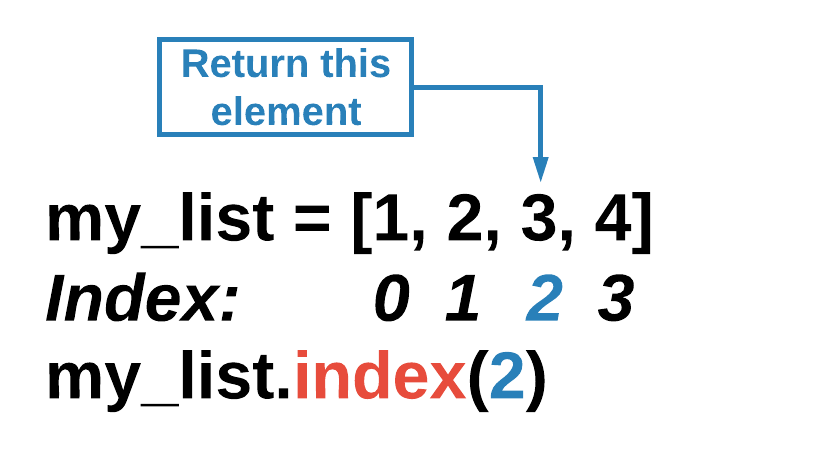
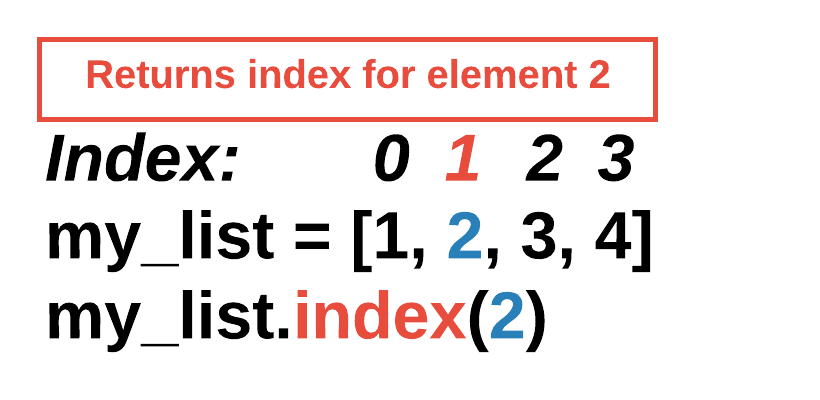
All QA fixed up until Strings save for the out-of-order problems.

Changed region(s): [[0.0305, 0.06, 0.8232, 0.9]]

diff --git a/.guides/secure/operators-exercise-3-helper.py b/.guides/secure/operators-exercise-3-helper.py
@@ -31,20 +31,33 @@ def count_variables(file):
     
   return num_vars == 2
 
-if count_prints(student_code):
-  if check_output(student_code):
-    if count_variables(student_code):
-      print("<h2>Test passed!</h2>")
-      sys.exit(0)
-    else:
-      print("<h2>Test did not pass</h2>")
-      print("Program did not use two variables.")
-      sys.exit(1)
-  else:
-    print("<h2>Test did not pass</h2>")
-    print("Program did not print 'Hello world'.")
-    sys.exit(1)
-else:
+def no_empty_string(file):
+  no_empty = True
+  with open(file, "r") as code_to_check:
+    for line in code_to_check.readlines():
+      if '""' in line or "''" in line:
+        no_empty = False
+    
+  return no_empty
+  
+if not count_variables(student_code):
+  print("<h2>Test did not pass</h2>")
+  print("Program did not use two variables.")
+
+if not check_output(student_code):
+  print("<h2>Test did not pass</h2>")
+  print("Program did not print 'Hello world'.")
+
+if not count_prints(student_code):
   print("<h2>Test did not pass</h2>")
   print("Did not use one print statement.")
+  
+if not no_empty_string(student_code):
+  print("<h2>Test did not pass</h2>")
+  print("Program should not contain any empty strings.")
+
+if check_output(student_code) and count_variables(student_code) and no_empty_string(student_code) and count_prints(student_code):
+  print("<h2>Test passed!</h2>")
+  sys.exit(0)
+else:
   sys.exit(1)

diff --git a/.guides/secure/operators-exercise-5-helper.py b/.guides/secure/operators-exercise-5-helper.py
@@ -14,8 +14,7 @@ def check_code(file):
       if "3.0" in line:
         has_float = True
       if "'2'" in line or '"2"' in line:
-        has_string = True
-    
+        has_string = True  
   return has_string and has_float
 
 def check_output(file):
@@ -25,15 +24,28 @@ def check_output(file):
   else:
     return False
 
-if check_code(student_code):
-  if check_output(student_code):
-    print("<h2>Test passed!</h2>")
-    sys.exit(0)
-  else:
-    print("<h2>Test did not pass</h2>")
-    print("Program did not print '5'")
-    sys.exit(1)
-else:
+def no_cheat(file):
+  no_cheating = True
+  with open(file, "r") as code_to_check:
+    for line in code_to_check.readlines():
+      if "print(5)" in line:
+        no_cheating = False
+  return no_cheating
+  
+if not check_code(student_code):
   print("<h2>Test did not pass</h2>")
-  print("Program does not have either a string or float variable")
+  print("Program needs to have a string and a float variable")
+  
+if not check_output(student_code):
+  print("<h2>Test did not pass</h2>")
+  print("Program did not print '5'")
+
+if not no_cheat(student_code):
+  print("<h2>Test did not pass</h2>")
+  print("Program cannot use `print(5)`")
+  
+if check_code(student_code) and check_output(student_code) and no_cheat(student_code):
+  print("<h2>Test passed!</h2>")
+  sys.exit(0)
+else:
   sys.exit(1)

diff --git a/.guides/secure/operators-exercise-4-helper.py b/.guides/secure/operators-exercise-4-helper.py
@@ -17,8 +17,7 @@ def check_code(file):
       if "2" in line:
         has_two = True
       if "/" in line or "//" in line:
-        has_div = True
-    
+        has_div = True 
   return has_seven and has_two and has_div
 
 def check_output(file):
@@ -28,15 +27,28 @@ def check_output(file):
   else:
     return False
 
-if check_code(student_code):
-  if check_output(student_code):
-    print("<h2>Test passed!</h2>")
-    sys.exit(0)
-  else:
-    print("<h2>Test did not pass</h2>")
-    print("Program did not print '3'")
-    sys.exit(1)
-else:
+def no_cheat(file):
+  cheat = True
+  with open(file, "r") as code_to_check:
+    for line in code_to_check.readlines():
+      if "print(3)" in line:
+        cheat= False    
+  return cheat
+
+if not check_code(student_code):
   print("<h2>Test did not pass</h2>")
   print("7 was not divided by 2")
+
+if not check_output(student_code):
+  print("<h2>Test did not pass</h2>")
+  print("Program did not result in the answer '3'")
+
+if not no_cheat(student_code):
+  print("<h2>Test did not pass</h2>")
+  print("Program cannot print '3' without doing division")
+  
+if check_code(student_code) and check_output(student_code) and no_cheat(student_code):
+  print("<h2>Test passed!</h2>")
+  sys.exit(0)
+else:
   sys.exit(1)

diff --git a/.guides/secure/fundamentals-exercise-5-helper.py b/.guides/secure/fundamentals-exercise-5-helper.py
@@ -21,16 +21,30 @@ def check_output(file):
     return True
   else:
     return False
+  
+def has_end(file):
+  end_command = False
+  with open(file, "r") as code_to_check:
+    for line in code_to_check.readlines():
+      if "end=" in line:
+        end_command = True
+    
+  return end_command
+    
+if not check_output(student_code):
+  print("<h2>Test did not pass</h2>")
+  print("Program did not print 'Okay, it is time to learn about operators.'")
 
-if count_prints(student_code):
-  if check_output(student_code):
-    print("<h2>Test passed!</h2>")
-    sys.exit(0)
-  else:
-    print("<h2>Test did not pass</h2>")
-    print("Program did not print 'Okay, it is time to learn about operators.'")
-    sys.exit(1)
-else:
+if not has_end(student_code):
+  print("<h2>Test did not pass</h2>")
+  print("Did not use `end` to remove newline character")
+    
+if not count_prints(student_code):
   print("<h2>Test did not pass</h2>")
   print("Did not use two print statements.")
+  
+if has_end(student_code) and check_output(student_code) and count_prints(student_code):
+  print("<h2>Test passed!</h2>")
+  sys.exit(0)
+else:
   sys.exit(1)

diff --git a/code/lists/exercise3.py b/code/lists/exercise3.py
@@ -1,10 +1,12 @@
 ########################################################
-# Erase the variable numbers before submitting your work
+# DO NOT EDIT THE CODE IN THE SECTION BELOW
 ########################################################
+import sys
 
-strings = []
+strings = sys.argv[1:]
 
 ########################################################
 # Enter your code below
 ########################################################
+
 

diff --git a/code/lists/list-index.py b/code/lists/list-index.py
@@ -1,0 +1,3 @@
+my_list = ["dog", True, 16, "house", 55.9, False, 0]
+index = my_list.index("house")
+print(index)

diff --git a/.guides/content/Exercise-3-f207.md b/.guides/content/Exercise-3-f207.md
@@ -3,17 +3,18 @@
 ## Lists Exercise 3
 
 **Problem**
-Write a program that takes a list called `strings` that contains a random selection of strings. Your program should print the first string when arranged in alphabetical order. **Note** use single quotes with your list of strings, the auto-grader will not work with double quotes.
+Write a program that takes a list called `strings` that contains a random selection of strings. Your program should print the first string when arranged in alphabetical order. 
 
 **Expected Output**
 * If `strings = ['luck', 'cat', 'kid', 'house']` then you will print `cat`
 * If `strings = ['duck', 'dddd', 'mouse', 'kite']` then you will print `dddd`
 
 **Important**
-Do not submit your code to be graded with the variable `strings`. The auto-grader will declare the variable for you.
+Do not edit the code in the top section. This code is necessary for the auto-grader to work. Add your code in the section below. Clicking the `TEST 1` button will test your code with `strings = ['luck', 'cat', 'kid', 'house']`. `TEST 2` will test your code with `strings = ['duck', 'dddd', 'mouse', 'kite']`.
 
-[Code Visualizer](open_tutor code/lists/exercise3.py)
-{try it}(python3 code/lists/exercise3.py)
+<details><summary>**Where is the code visualizer?**</summary>Unfortunately, the code visualizer does not work with the statement `import sys`. Since importing the `sys` module is required for this problem, the code visualizer will not be available for this problem.</details>
 
+{test 1}(python3 code/lists/exercise3.py luck cat kid house)
+{test 2}(python3 code/lists/exercise3.py duck dddd mouse kite)
 
 {Check It!|assessment}(code-output-compare-4058655817)

diff --git a/.guides/content/Exercise-2-7284.md b/.guides/content/Exercise-2-7284.md
@@ -9,7 +9,8 @@ Write a program that takes a list called `my_list` (it could be a list of any da
 * If `my_list = ['hi', 'hello']` then you will print `['hi', 'hello', 'hi', 'hello', 'hi', 'hello']`
 * If `my_list = [65, 111, 2, 81, 65, 32]` then you will print `['65', '111', '2', '81', '65', '32']`
 
-**Important**, do not edit the code in the top section. This code is necessary for the auto-grader to work. Add your code in the section below. Clicking the `TEST 1` button will test your code with `my_list = ['hi', 'hello']`. `TEST 2` will test your code with `my_list = [65, 111, 2, 81, 65, 32]`.
+**Important**
+Do not edit the code in the top section. This code is necessary for the auto-grader to work. Add your code in the section below. Clicking the `TEST 1` button will test your code with `my_list = ['hi', 'hello']`. `TEST 2` will test your code with `my_list = [65, 111, 2, 81, 65, 32]`.
 
 <details><summary>**Where is the code visualizer?**</summary>Unfortunately, the code visualizer does not work with the statement `import sys`. Since importing the `sys` module is required for this problem, the code visualizer will not be available for this problem.</details>
 

diff --git a/.guides/content/Exercise-1-9920.md b/.guides/content/Exercise-1-9920.md
@@ -11,7 +11,8 @@ Write a program that takes a list of integers called `numbers` and replaces each
 
 <details><summary>**Hint**</summary>Using the iteration variable alone is not sufficient to change the element of a list. You need to be able to access the **index** of the iteration variable to modify the element.</details>
 
-**Important**, do not edit the code in the top section. This code is necessary for the auto-grader to work. Add your code in the section below. Clicking the `TRY IT` button will test your code with `numbers = [30, 1, 20, 4]`.
+**Important**
+Do not edit the code in the top section. This code is necessary for the auto-grader to work. Add your code in the section below. Clicking the `TRY IT` button will test your code with `numbers = [30, 1, 20, 4]`.
 
 <details><summary>**Where is the code visualizer?**</summary>Unfortunately, the code visualizer does not work with the statement `import sys`. Since importing the `sys` module is required for this problem, the code visualizer will not be available for this problem.</details>
 

diff --git a/.guides/content/Index-2d8e.md b/.guides/content/Index-2d8e.md
@@ -1,22 +1,22 @@
 ## The Index Method
 
-The `index` method returns the element at a given index of a list. `index` has one parameter, an integer that is an index of the list.
+The `index` method returns the index of a given element in a list. `index` has one parameter, the element in a list.
 
 ![Index Method](.guides/images/list-index-method.png)
 
 ```python
-my_list = ["dog", True, 16, "house", 55.9, False, 0]
-element = my_list.index(3)
-print(element)
+my_list = ["dog", True, 16, "house", 55.9, False, 16]
+index = my_list.index("house")
+print(index)
 ```
 
 {try it}(python3 code/lists/list-index.py 1)
 
 |||challenge
 ## What happens if you:
-* Change the value of `element` to `my_list.index(1)`?
-* Change the value of `element` to `my_list.index(-1)`?
-* Change the value of `element` to `my_list.index(len(my_list))`?
+* Change the value of `index` to `my_list.index(False)`?
+* Change the value of `index` to `my_list.index(16)`?
+* Change the value of `index` to `my_list.index('cat')`?
 
 |||
 

diff --git a/.guides/content/Sort-887d.md b/.guides/content/Sort-887d.md
@@ -1,6 +1,6 @@
 ## The Sort Method
 
-The `sort` method arranged a list in ascending order. `sort` does not have a parameter, and it does not return a new list. The `sort` method modifies the original list.
+The `sort` method arranges a list in order. If the `sort` method does not have a parameter, then it will sort the list in ascending order. The `sort` method does not return a new list; instead it modifies the original list.
 
 ```python
 my_list = [23, 55, 11, 7, 82.9, -14, 0, 34]
@@ -20,6 +20,20 @@ print(my_list)
 |||
 
 {try it}(python3 code/lists/list-sort.py 2)
+
+## Reverse Sort
+
+The `sort` method has an optional parameter to sort a list in descending order. Use `reverse=True` as the parameter to reverse sort a list.
+
+```python
+my_list = [23, 55, 11, 7, 82.9, -14, 0, 34]
+my_list.sort()
+print(my_list)
+my_list.sort(reverse=True)
+print(my_list)
+```
+
+{try it}(python3 code/lists/list-sort.py 3)
 
 {Check It!|assessment}(multiple-choice-1411581104)
 

diff --git a/.guides/content/For-Loops-aa78.md b/.guides/content/For-Loops-aa78.md
@@ -51,3 +51,5 @@ The loop ran five times, but the variable `i` did not start with 1. Instead it s
 {Try it}(python3 code/loops/playground-for-loop.py 4)
 
 <details><summary>**The 3rd Number in `range`**</summary>The range statement normall works with two numbers, where it starts counting and where it ends. The two examples above show that the range statement can take a third number. This number tells `range` the amount to increment. Adding a `2` will mean that `range` counts by 2. Add a negative number and `range` will count down. In this case, be sure that the first number is larger than the second.
+  
+{Check It!|assessment}(multiple-choice-2984696218)
